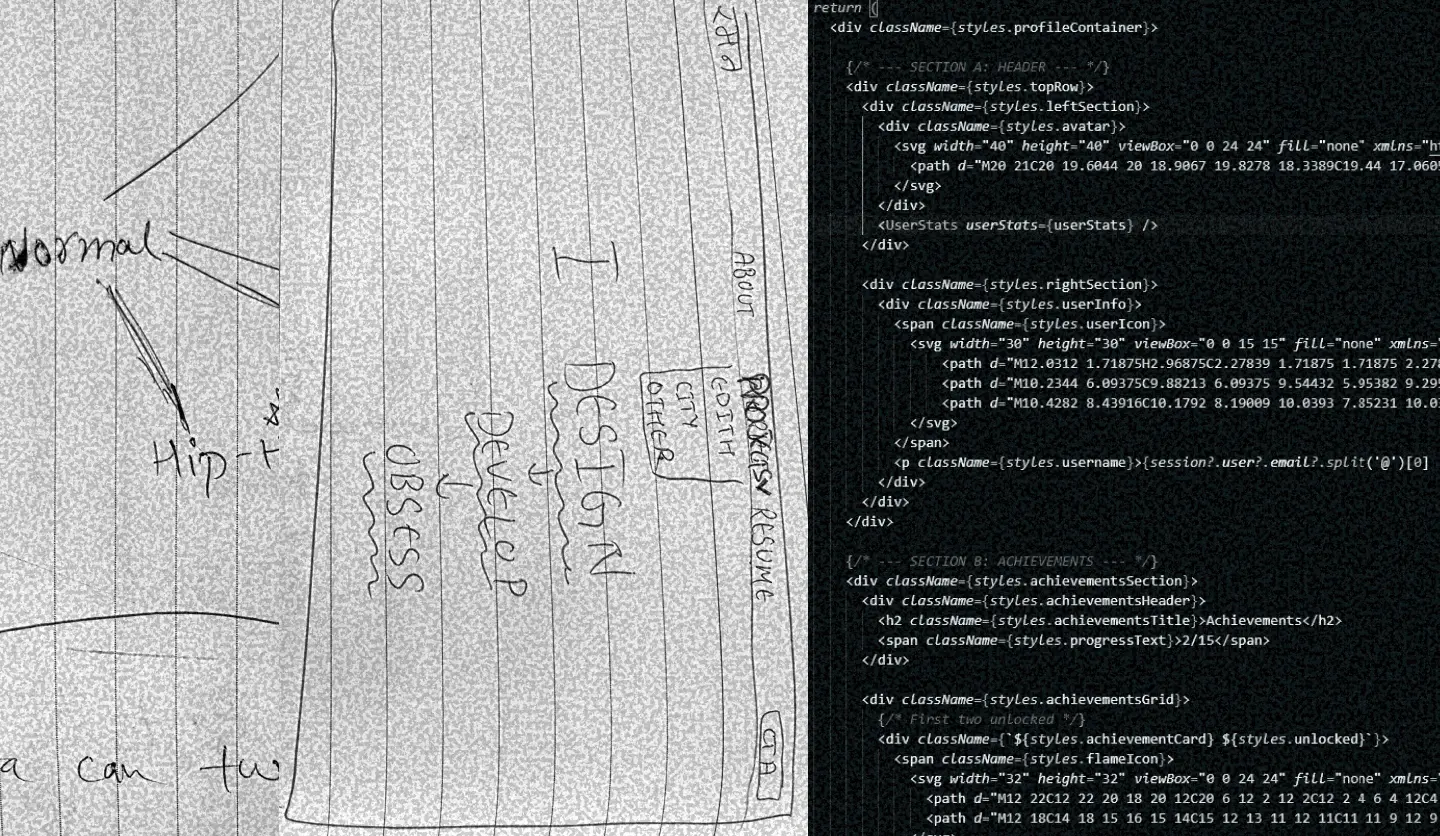
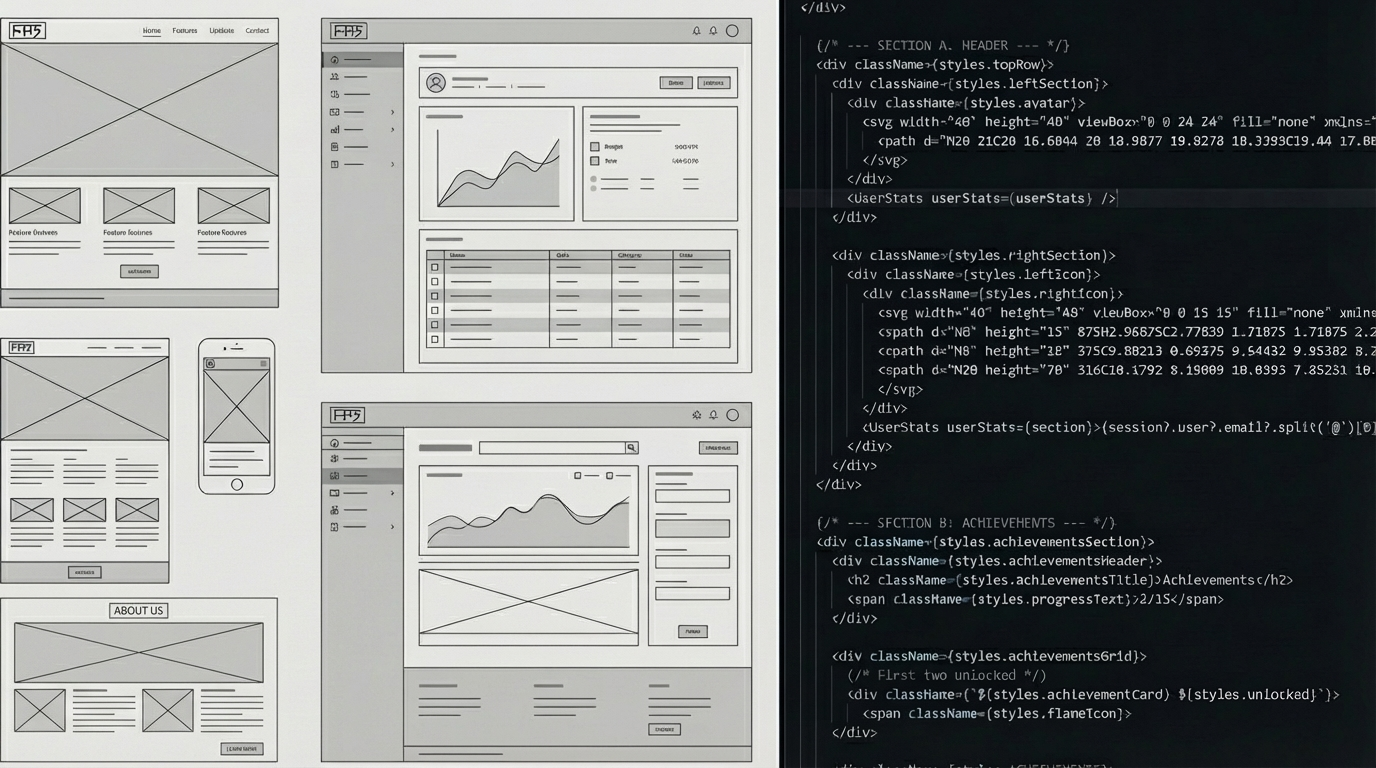
Changes

diff --git a/src/Sections/AboutSection.jsx b/src/Sections/AboutSection.jsx
@@ -6,22 +6,30 @@ const AboutSection = () => {
     const sectionRef = useReveal({ y: 50, duration: 0.9, stagger: 0.18 });
 
     return(
-        <section id="about" ref={sectionRef} className="section w-full max-w-400 h-auto min-h-screen flex items-center justify-center px-4 py-20 lg:py-0 lg:h-screen">
-            <div className="flex flex-col items-start lg:items-center">
-                <div className="flex flex-col lg:flex-row justify-center w-full lg:w-310 gap-6 lg:gap-0">
-                    <p data-reveal className="text-base md:text-xl font-body w-full lg:w-78 order-2 lg:order-1">Obsession is a superpower. Whether analyzing the rapid-fire rhythm of an Eminem track, strategizing the next move on a chessboard, solving a Rubik's cube, or architecting a complex React component, the approach remains identical: diving all the way in and figuring out exactly how the underlying logic works.</p>
-                    <h2 data-reveal className="text-7xl md:text-9xl xl:text-[180px] font-semibold text-left lg:text-center order-1 lg:order-2">Raman</h2>
-                    <p data-reveal className="hidden lg:block text-base md:text-xl font-body w-full lg:w-90 text-left lg:text-right lg:h-54 order-3">Currently completing the FDIT program at KPU, the daily drive is about turning ambitious, sci-fi concepts into tangible digital realities. Taking a project like the E.D.I.T.H. capstone from a raw idea to a fully functional, AI-integrated application requires a deep-dive focus. It is not just about writing code; it is about living the project until the architecture is flawless.</p>
-                </div>   
-                <div data-reveal className="flex flex-col items-start lg:items-center mt-6 lg:mt-0">
+        <section
+            ref={sectionRef}
+            className="section w-full min-h-screen flex flex-col items-center justify-center px-4 py-20 lg:py-0 lg:h-screen"
+        >
+            <div className="max-w-350 w-full flex flex-col lg:flex-row items-start lg:items-center justify-center gap-10 lg:gap-20">
+                <div className="flex flex-col gap-6 max-w-2xl items-center">
+                    <h1 data-reveal className="text-6xl md:text-8xl xl:text-[160px] font-semibold leading-tight text-center">
+                        Raman
+                    </h1>
+                    <p data-reveal className="text-lg md:text-xl font-body leading-relaxed text-center">
+                        I'm a front-end developer and designer who doesn't just build projects — I live them. 
+                        When something clicks for me, it stops being "work" and turns into something I genuinely 
+                        can't stop thinking about. That's not a flex, that's just how my brain works.
+                    </p>
+                    <p data-reveal className="text-lg md:text-xl font-body leading-relaxed text-center">
+                        I'm currently in the FDIT program at KPU, figuring out how to take everything 
+                        I've been obsessing over since the 9th grade and turn it into a real career. 
+                        Fluent in English, Hindi, and Punjabi — and slowly becoming fluent in GSAP.
+                    </p>
                     <Link to="/about">
                         <ButtonPrimary label="Know More"/>
                     </Link>
-                    <p className="hidden lg:block text-base md:text-xl font-body w-full lg:w-310 text-center mt-4">The digital landscape moves fast, and the target is firmly set on specializing in high-end motion design and immersive interactivity. That means mastering GSAP, advancing core front-end knowledge, and meticulously hand-crafting the animations that make users say "WOW." True code ownership means building the logic from scratch rather than relying on automated tools, ensuring every micro-interaction feels deliberate, premium, and perfectly timed.
-                    Navigating the tech industry as a multilingual international student -- fluent in English, Hindi, and Punjabi -- builds a unique kind of mental fortitude and resilience. That grit is the foundation of every design system and tech stack encountered. It brings a global perspective to user-centered design and a relentless, uncompromising work ethic to the development process.
-                    </p>
                 </div>
-            </div>    
+            </div>
         </section>
     );
 };

diff --git a/src/Sections/EDITH/HeroSection.jsx b/src/Sections/EDITH/HeroSection.jsx
@@ -6,7 +6,11 @@ const LINKS = [
         href: "https://www.figma.com/design/YaJNAj0Yxe0YomeBArNYIf/E.D.I.T.H.?node-id=11-52&t=eFugCdo6sSQkvomD-1",
         icon: (
             <svg xmlns="http://www.w3.org/2000/svg" className="w-5 h-5" viewBox="0 0 24 24" fill="currentColor">
-                <path d="M8 24c2.2 0 4-1.8 4-4v-4H8c-2.2 0-4 1.8-4 4s1.8 4 4 4zm0-20C5.8 4 4 5.8 4 8s1.8 4 4 4h4V4H8zm0 8c-2.2 0-4-1.8-4-4s1.8-4 4-4h4v8H8zm8-8h-4v8h4c2.2 0 4-1.8 4-4s-1.8-4-4-4zm0 12c-2.2 0-4 1.8-4 4s1.8 4 4 4 4-1.8 4-4-1.8-4-4-4z" />
+                <path d="M5 5.5A3.5 3.5 0 0 1 8.5 2H12v7H8.5A3.5 3.5 0 0 1 5 5.5z" />
+                <path d="M12 2h3.5a3.5 3.5 0 1 1 0 7H12V2z" />
+                <path d="M12 12.5a3.5 3.5 0 1 1 7 0 3.5 3.5 0 1 1-7 0z" />
+                <path d="M5 19.5A3.5 3.5 0 0 1 8.5 16H12v3.5a3.5 3.5 0 1 1-7 0z" />
+                <path d="M5 12.5A3.5 3.5 0 0 1 8.5 9H12v7H8.5A3.5 3.5 0 0 1 5 12.5z" />
             </svg>
         ),
     },
@@ -29,7 +33,7 @@ const HeroSection = () => {
             ref={sectionRef}
             className="section w-full min-h-screen flex flex-col items-center justify-center px-4 py-24 lg:py-0 lg:h-screen"
         >
-            <div className="max-w-400 w-full flex flex-col lg:flex-row items-start lg:items-center justify-center gap-10 lg:gap-20">
+            <div className="max-w-350 w-full flex flex-col lg:flex-row items-start lg:items-center justify-center gap-10 lg:gap-20">
                 <div className="flex flex-col gap-6 max-w-3xl">
                     <h1 data-reveal className="text-6xl md:text-8xl xl:text-[140px] font-semibold leading-tight">
                         E.D.I.T.H.
@@ -40,6 +44,9 @@ const HeroSection = () => {
                         unifying Jira, GitHub, and Figma into a single conversational interface.
                     </p>
                     <div data-reveal className="flex flex-wrap items-center gap-4 mt-2">
+                        <span className="font-body text-base opacity-50 italic ml-2">
+                            Live Demo Coming Soon
+                        </span>
                         {LINKS.map((link) => (
                             <a
                                 key={link.label}
@@ -52,9 +59,6 @@ const HeroSection = () => {
                                 {link.label}
                             </a>
                         ))}
-                        <span className="font-body text-base opacity-50 italic ml-2">
-                            Live Demo Coming Soon
-                        </span>
                     </div>
                 </div>
             </div>

diff --git a/src/Sections/Ascend/HeroSection.jsx b/src/Sections/Ascend/HeroSection.jsx
@@ -16,7 +16,11 @@ const LINKS = [
         href: "https://www.figma.com/design/1TwaGickOb1fAKC8NDaJSF/FDIT-2120-Design?node-id=156-608&t=eFugCdo6sSQkvomD-1",
         icon: (
             <svg xmlns="http://www.w3.org/2000/svg" className="w-5 h-5" viewBox="0 0 24 24" fill="currentColor">
-                <path d="M8 24c2.2 0 4-1.8 4-4v-4H8c-2.2 0-4 1.8-4 4s1.8 4 4 4zm0-20C5.8 4 4 5.8 4 8s1.8 4 4 4h4V4H8zm0 8c-2.2 0-4-1.8-4-4s1.8-4 4-4h4v8H8zm8-8h-4v8h4c2.2 0 4-1.8 4-4s-1.8-4-4-4zm0 12c-2.2 0-4 1.8-4 4s1.8 4 4 4 4-1.8 4-4-1.8-4-4-4z" />
+                <path d="M5 5.5A3.5 3.5 0 0 1 8.5 2H12v7H8.5A3.5 3.5 0 0 1 5 5.5z" />
+                <path d="M12 2h3.5a3.5 3.5 0 1 1 0 7H12V2z" />
+                <path d="M12 12.5a3.5 3.5 0 1 1 7 0 3.5 3.5 0 1 1-7 0z" />
+                <path d="M5 19.5A3.5 3.5 0 0 1 8.5 16H12v3.5a3.5 3.5 0 1 1-7 0z" />
+                <path d="M5 12.5A3.5 3.5 0 0 1 8.5 9H12v7H8.5A3.5 3.5 0 0 1 5 12.5z" />
             </svg>
         ),
     },
@@ -39,7 +43,7 @@ const HeroSection = () => {
             ref={sectionRef}
             className="section w-full min-h-screen flex flex-col items-center justify-center px-4 py-24 lg:py-0 lg:h-screen"
         >
-            <div className="max-w-400 w-full flex flex-col lg:flex-row items-start lg:items-center justify-center gap-10 lg:gap-20">
+            <div className="max-w-350 w-full flex flex-col lg:flex-row items-start lg:items-center justify-center gap-10 lg:gap-20">
                 <div className="flex flex-col gap-6 max-w-3xl">
                     <h1 data-reveal className="text-6xl md:text-8xl xl:text-[140px] font-semibold leading-tight">
                         Ascend

diff --git a/src/Sections/COV/HeroSection.jsx b/src/Sections/COV/HeroSection.jsx
@@ -16,7 +16,11 @@ const LINKS = [
         href: "https://www.figma.com/proto/TsrEhXUx3LBDNcIsuPsRks/HIFI-Prototype?node-id=0-1&t=eFugCdo6sSQkvomD-1",
         icon: (
             <svg xmlns="http://www.w3.org/2000/svg" className="w-5 h-5" viewBox="0 0 24 24" fill="currentColor">
-                <path d="M8 24c2.2 0 4-1.8 4-4v-4H8c-2.2 0-4 1.8-4 4s1.8 4 4 4zm0-20C5.8 4 4 5.8 4 8s1.8 4 4 4h4V4H8zm0 8c-2.2 0-4-1.8-4-4s1.8-4 4-4h4v8H8zm8-8h-4v8h4c2.2 0 4-1.8 4-4s-1.8-4-4-4zm0 12c-2.2 0-4 1.8-4 4s1.8 4 4 4 4-1.8 4-4-1.8-4-4-4z" />
+                <path d="M5 5.5A3.5 3.5 0 0 1 8.5 2H12v7H8.5A3.5 3.5 0 0 1 5 5.5z" />
+                <path d="M12 2h3.5a3.5 3.5 0 1 1 0 7H12V2z" />
+                <path d="M12 12.5a3.5 3.5 0 1 1 7 0 3.5 3.5 0 1 1-7 0z" />
+                <path d="M5 19.5A3.5 3.5 0 0 1 8.5 16H12v3.5a3.5 3.5 0 1 1-7 0z" />
+                <path d="M5 12.5A3.5 3.5 0 0 1 8.5 9H12v7H8.5A3.5 3.5 0 0 1 5 12.5z" />
             </svg>
         ),
     },
@@ -39,7 +43,7 @@ const HeroSection = () => {
             ref={sectionRef}
             className="section w-full min-h-screen flex flex-col items-center justify-center px-4 py-24 lg:py-0 lg:h-screen"
         >
-            <div className="max-w-400 w-full flex flex-col lg:flex-row items-start lg:items-center justify-center gap-10 lg:gap-20">
+            <div className="max-w-350 w-full flex flex-col lg:flex-row items-start lg:items-center justify-center gap-10 lg:gap-20">
                 <div className="flex flex-col gap-6 max-w-3xl">
                     <h1 data-reveal className="text-6xl md:text-8xl xl:text-[140px] font-semibold leading-tight">
                         Dashboard

diff --git a/src/Components/Footer.jsx b/src/Components/Footer.jsx
@@ -5,16 +5,16 @@ import gmail from "../assets/gmail.svg";
 const Footer = () => {
     return(
         <footer className = "w-full flex justify-center bg-primary items-center fixed bottom-0 z-(-1)">
-            <div className = "flex w-full h-13 max-w-400 justify-between items-center px-4 xl:px-0">
+            <div className = "flex w-full h-13 max-w-350 justify-between items-center px-4 xl:px-0">
                 <nav aria-label="Social links" className = "flex gap-4 sm:gap-10">
-                    <a href="https://www.linkedin.com/in/ramandeep-singh-studio" target="_blank" rel="noopener noreferrer" aria-label="LinkedIn profile">
-                        <img src = {linkedin} alt="LinkedIn" className="w-5 sm:w-auto" />
-                    </a>
                     <a href="https://github.com/RamanFDIT" target="_blank" rel="noopener noreferrer" aria-label="GitHub profile">
                         <img src = {github} alt="GitHub" className="w-5 sm:w-auto" />
                     </a>
                     <a href="mailto:studio.ramandeep@gmail.com" aria-label="Send email">
                         <img src = {gmail} alt="Gmail" className="w-5 sm:w-auto" />
+                    </a>
+                    <a href="https://www.linkedin.com/in/ramandeep-singh-studio" target="_blank" rel="noopener noreferrer" aria-label="LinkedIn profile">
+                        <img src = {linkedin} alt="LinkedIn" className="w-5 sm:w-auto" />
                     </a>
                 </nav>
                 <p className = "font-semibold text-sm sm:text-xl">Made with React</p>

diff --git a/src/Pages/ContactPage.jsx b/src/Pages/ContactPage.jsx
@@ -44,7 +44,7 @@ const ContactPage = () => {
                 ref={sectionRef}
                 className="section w-full min-h-screen flex flex-col items-center justify-center px-4 py-24 lg:py-0 lg:h-screen"
             >
-                <div className="max-w-400 w-full flex flex-col lg:flex-row items-center lg:items-start justify-center gap-10 lg:gap-20">
+                <div className="max-w-350 w-full flex flex-col lg:flex-row items-center lg:items-start justify-center gap-10 lg:gap-20">
                     {/* Left — heading + subtext */}
                     <div className="flex flex-col gap-6 max-w-xl lg:pt-4">
                         <h1 data-reveal className="text-6xl md:text-8xl xl:text-[140px] font-semibold leading-tight">
@@ -54,9 +54,9 @@ const ContactPage = () => {
                             Have a project in mind, a question, or just want to say hi?
                             Drop me a message and I'll get back to you as soon as I can.
                         </p>
-                        <p data-reveal className="text-base font-body opacity-50">
+                        <a href="mailto:studio.ramandeep@gmail.com" aria-label="Send email" className = "underline  hover:text-secondary transition-colors duration-300">
                             studio.ramandeep@gmail.com
-                        </p>
+                        </a>
                     </div>
 
                     {/* Right — form */}

diff --git a/src/Pages/ResumePage.jsx b/src/Pages/ResumePage.jsx
@@ -20,7 +20,7 @@ const ResumePage = () => {
                 ref={sectionRef}
                 className="section w-full min-h-screen flex flex-col items-center justify-center px-4 py-24 lg:py-0 lg:h-screen"
             >
-                <div className="max-w-400 w-full flex flex-col lg:flex-row items-center lg:items-center justify-center gap-10 lg:gap-20">
+                <div className="max-w-350 w-full flex flex-col lg:flex-row items-center lg:items-center justify-center gap-10 lg:gap-20">
                     {/* Left side — heading + download */}
                     <div className="flex flex-col gap-6 items-center lg:items-start">
                         <h1 data-reveal className="text-6xl md:text-8xl xl:text-[140px] font-semibold leading-tight">

diff --git a/src/Sections/About/VisionSection.jsx b/src/Sections/About/VisionSection.jsx
@@ -8,7 +8,7 @@ const VisionSection = () => {
             ref={sectionRef}
             className="section w-full min-h-screen flex flex-col items-center justify-center bg-secondary text-primary px-4 py-20 lg:py-0 lg:h-screen"
         >
-            <div className="max-w-400 w-full flex flex-col lg:flex-row-reverse items-start lg:items-center justify-between gap-10 lg:gap-20">
+            <div className="max-w-350 w-full flex flex-col lg:flex-row-reverse items-start lg:items-center justify-between gap-10 lg:gap-20">
                 <h2 data-reveal className="text-6xl md:text-8xl xl:text-[140px] font-semibold leading-tight shrink-0 text-left lg:text-right">
                     Where I'm<br />Headed
                 </h2>

diff --git a/src/Components/NavBar.jsx b/src/Components/NavBar.jsx
@@ -92,7 +92,7 @@ const NavBar = () => {
     const navlinks = [
         {
             id : "1",
-            href : isLanding ? "#about" : "/about",
+            href : "/about",
             label : "About"
         },
         {
@@ -104,7 +104,7 @@ const NavBar = () => {
 
     return (
         <nav className="w-full flex justify-center items-center bg-primary fixed top-0 z-50">
-            <div className="flex w-full h-13 max-w-400 justify-between items-center px-4 xl:px-0">
+            <div className="flex w-full h-13 max-w-350 justify-between items-center px-4 xl:px-0">
                 <Link to="/">
                     <img className="w-16 md:w-24 h-auto" src={logo} alt="My Logo" />
                 </Link>

diff --git a/src/Sections/COV/ChallengesSection.jsx b/src/Sections/COV/ChallengesSection.jsx
@@ -8,7 +8,7 @@ const ChallengesSection = () => {
             ref={sectionRef}
             className="section w-full min-h-screen flex flex-col items-center justify-center bg-secondary text-primary px-4 py-20 lg:py-0 lg:h-screen"
         >
-            <div className="max-w-400 w-full flex flex-col lg:flex-row-reverse items-start lg:items-center justify-between gap-10 lg:gap-20">
+            <div className="max-w-350 w-full flex flex-col lg:flex-row-reverse items-start lg:items-center justify-between gap-10 lg:gap-20">
                 <h2 data-reveal className="text-6xl md:text-8xl xl:text-[140px] font-semibold leading-tight shrink-0 text-left lg:text-right">
                     Challenges
                 </h2>

diff --git a/src/Sections/EDITH/UsersSection.jsx b/src/Sections/EDITH/UsersSection.jsx
@@ -8,7 +8,7 @@ const UsersSection = () => {
             ref={sectionRef}
             className="section w-full min-h-screen flex flex-col items-center justify-center bg-secondary text-primary px-4 py-20 lg:py-0 lg:h-screen"
         >
-            <div className="max-w-400 w-full flex flex-col lg:flex-row-reverse items-start lg:items-center justify-between gap-10 lg:gap-20">
+            <div className="max-w-350 w-full flex flex-col lg:flex-row-reverse items-start lg:items-center justify-between gap-10 lg:gap-20">
                 <h2 data-reveal className="text-6xl md:text-8xl xl:text-[140px] font-semibold leading-tight shrink-0 text-left lg:text-right">
                     The Users
                 </h2>

diff --git a/src/Sections/Ascend/UserSection.jsx b/src/Sections/Ascend/UserSection.jsx
@@ -8,7 +8,7 @@ const UserSection = () => {
             ref={sectionRef}
             className="section w-full min-h-screen flex flex-col items-center justify-center bg-secondary text-primary px-4 py-20 lg:py-0 lg:h-screen"
         >
-            <div className="max-w-400 w-full flex flex-col lg:flex-row-reverse items-start lg:items-center justify-between gap-10 lg:gap-20">
+            <div className="max-w-350 w-full flex flex-col lg:flex-row-reverse items-start lg:items-center justify-between gap-10 lg:gap-20">
                 <h2 data-reveal className="text-6xl md:text-8xl xl:text-[140px] font-semibold leading-tight shrink-0 text-left lg:text-right">
                     The User
                 </h2>
